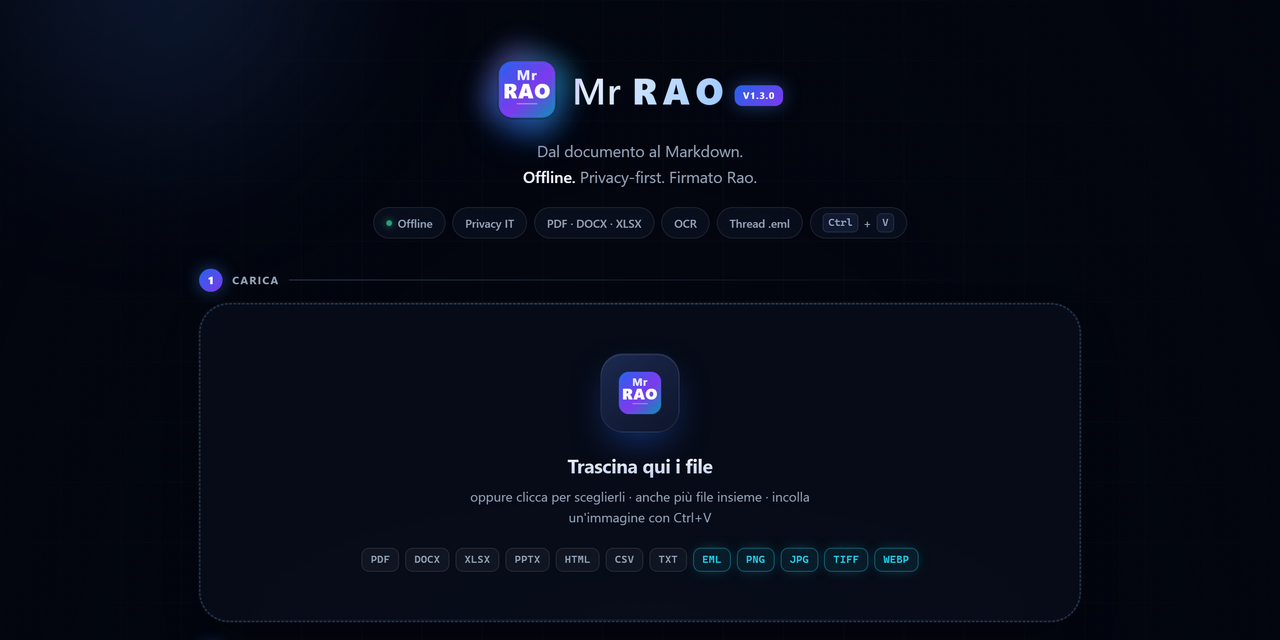
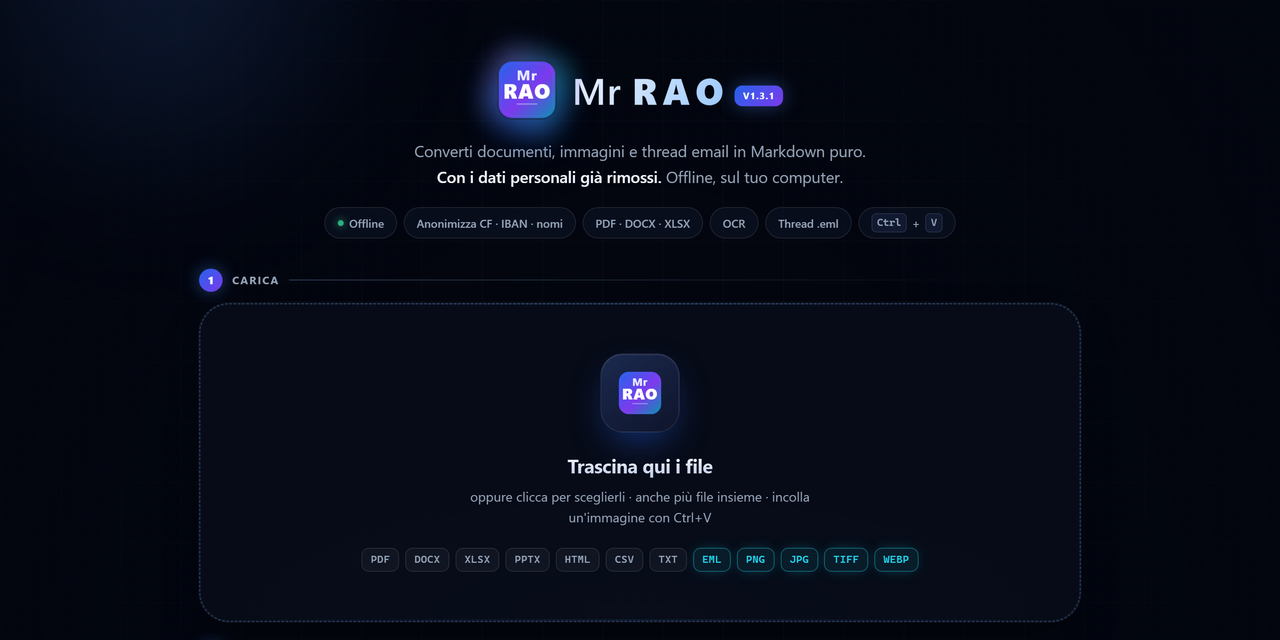
Lead with what the tool actually does: it anonymises
The header said where conversion happens, not that the output comes out
already stripped of personal data. Those are two different promises, and the
second is the one no other offline converter makes — it is what makes pasting
the result into an assistant safe.

- Header and both READMEs now lead with the redaction, not with "offline"
- The "Privacy IT" pill says what it does: "Anonimizza CF, IBAN, nomi"
- Dropped "Firmato Rao": an in-joke for anyone who does not know the author
- scripts/make_screenshot.py replaces the fiddly manual capture. Headless
  Chrome cannot drive the page, so a same-origin bridge page performs the
  conversion over a synchronous XHR before the load event Chrome shoots on;
  an async fetch photographs an empty result.
- Backlog: translating the UI needs pluggable per-country detectors first,
  or an English interface would promise to protect data it cannot recognise

Changed region(s): [[0.3125, 0.2188, 0.6875, 0.3125], [0.25, 0.3125, 0.75, 0.375]]

diff --git a/templates/index.html b/templates/index.html
@@ -32,12 +32,12 @@
             <span class="hero__wordmark">Mr <span class="hero__rao">RAO</span><span class="hero__badge">v{{ app_version }}</span></span>
         </div>
         <p class="hero__tagline">
-            Dal documento al Markdown.<br>
-            <strong>Offline.</strong> Privacy-first. Firmato Rao.
+            Converti documenti, immagini e thread email in Markdown puro.<br>
+            <strong>Con i dati personali già rimossi.</strong> Offline, sul tuo computer.
         </p>
         <div class="pills">
             <span class="pill"><span class="pill-dot"></span> Offline</span>
-            <span class="pill">Privacy IT</span>
+            <span class="pill">Anonimizza CF · IBAN · nomi</span>
             <span class="pill">PDF · DOCX · XLSX</span>
             <span class="pill">OCR</span>
             <span class="pill">Thread .eml</span>

diff --git a/scripts/make_screenshot.py b/scripts/make_screenshot.py
@@ -1,0 +1,209 @@
+"""Genera lo screenshot dell'interfaccia per il README.
+
+Perché serve uno script e non uno scatto a mano: la schermata va rifatta a
+ogni modifica visibile della UI, e a mano si sbaglia (si fotografa il
+risultato vuoto, oppure il server serve ancora il template in cache).
+
+Come funziona, e perché così:
+
+1. Scrive una pagina-ponte temporanea in `static/`. Serve perché Chrome in
+   modalità headless non sa interagire con la pagina: non può caricare un
+   file e aspettare la conversione. La pagina-ponte invece è servita dalla
+   stessa origine dell'app, quindi può pilotarne il DOM.
+2. La conversione la fa con una XHR **sincrona**: Chrome scatta sull'evento
+   `load`, quindi tutto il lavoro deve concludersi prima di quell'evento.
+   Con una fetch asincrona si fotografa un risultato ancora vuoto.
+3. Ritaglia lo spazio vuoto sotto il footer cercando l'ultima riga che
+   contiene testo chiaro.
+
+Uso:
+    venv\\Scripts\\python scripts\\make_screenshot.py --url http://127.0.0.1:5000
+
+Il server dev'essere già avviato **dopo** l'ultima modifica ai template:
+Jinja li tiene in cache, quindi un server vecchio serve la pagina vecchia.
+"""
+from __future__ import annotations
+
+import argparse
+import shutil
+import subprocess
+import sys
+import urllib.error
+import urllib.request
+from pathlib import Path
+
+ROOT = Path(__file__).resolve().parents[1]
+STATIC = ROOT / "static"
+OUT_DIR = ROOT / "docs" / "img"
+PONTE = STATIC / "_screenshot_bridge.html"
+
+CHROME_CANDIDATI = [
+    Path(r"C:\Program Files\Google\Chrome\Application\chrome.exe"),
+    Path(r"C:\Program Files (x86)\Google\Chrome\Application\chrome.exe"),
+    Path.home() / r"AppData\Local\Google\Chrome\Application\chrome.exe",
+    Path(r"C:\Program Files (x86)\Microsoft\Edge\Application\msedge.exe"),
+    Path(r"C:\Program Files\Microsoft\Edge\Application\msedge.exe"),
+]
+
+DOCUMENTO_DEMO = """FATTURA n. 2026/0184
+
+Cliente: Mario Rossi
+Via dei Mille 12, Milano
+Codice fiscale: RSSMRA80A01H501U
+P.IVA: IT01234567890
+Email: mario.rossi@example.com
+Telefono: +39 333 1234567
+IBAN: IT60X0542811101000000123456
+
+Protocollo interno 0123456789 - Versione 1.10 del listino
+
+Descrizione                 Quantita   Importo
+Consulenza tecnica              12     1.440,00
+Licenza software annuale         1       600,00
+Totale imponibile                      2.040,00"""
+
+PONTE_HTML = """<!doctype html>
+<html lang="it">
+<head><meta charset="utf-8"><title>scatto</title>
+<style>html,body{margin:0;padding:0;background:#060912}iframe{display:block;width:100vw;height:100vh;border:0}</style>
+</head>
+<body>
+<script>
+const CONTENUTO = __CONTENUTO__;
+const fd = new FormData();
+fd.append('file', new File([CONTENUTO], 'fattura-2026-0184.txt', {type: 'text/plain'}));
+fd.append('profile', 'default');
+const xhr = new XMLHttpRequest();
+xhr.open('POST', '/api/convert/sync', false);
+xhr.send(fd);
+const esito = JSON.parse(xhr.responseText);
+
+const frame = document.createElement('iframe');
+frame.src = '/';
+frame.addEventListener('load', () => {
+  const doc = frame.contentDocument;
+  doc.getElementById('markdown-output').textContent = esito.markdown;
+  doc.getElementById('result-card').style.display = 'flex';
+  const badge = doc.getElementById('redaction-badge');
+  const totale = (esito.redaction && esito.redaction.total) || 0;
+  if (badge && totale) {
+    badge.style.display = 'inline-flex';
+    badge.textContent = '\\u{1F6E1}\\uFE0F ' + totale + ' redazioni';
+  }
+  const stile = doc.createElement('style');
+  stile.textContent = '.info-fab{display:none!important}';
+  doc.head.appendChild(stile);
+  const cronologia = doc.getElementById('history-list');
+  if (cronologia) {
+    cronologia.innerHTML = '<button type="button" class="history-item">' +
+      '<span class="hi-name">fattura-2026-0184.md</span>' +
+      '<span class="hi-meta">adesso \\u00b7 \\u{1F6E1}\\uFE0F' + totale + '</span></button>';
+  }
+});
+document.body.appendChild(frame);
+</script>
+</body>
+</html>
+"""
+
+
+def trova_browser() -> Path | None:
+    for p in CHROME_CANDIDATI:
+        if p.exists():
+            return p
+    return None
+
+
+def server_attivo(url: str) -> bool:
+    try:
+        with urllib.request.urlopen(url.rstrip("/") + "/api/health", timeout=3) as r:
+            return r.status == 200
+    except (urllib.error.URLError, OSError):
+        return False
+
+
+def ritaglia_e_salva(grezzo: Path, larghezza_finale: int = 1500) -> tuple[int, int]:
+    from PIL import Image
+
+    im = Image.open(grezzo).convert("RGB")
+    larg, alt = im.size
+
+    def ha_testo(y: int) -> bool:
+        return any(max(im.getpixel((x, y))) > 130 for x in range(0, larg, 12))
+
+    ultima = alt - 1
+    while ultima > 0 and not ha_testo(ultima):
+        ultima -= 10
+
+    ritagliata = im.crop((0, 0, larg, min(alt, ultima + 110)))
+    altezza = round(ritagliata.size[1] * larghezza_finale / larg)
+    finale = ritagliata.resize((larghezza_finale, altezza), Image.LANCZOS)
+
+    OUT_DIR.mkdir(parents=True, exist_ok=True)
+    finale.save(OUT_DIR / "schermata.png", optimize=True)
+    # Anteprima social 1280x640: solo intestazione e area di rilascio
+    im.crop((0, 0, larg, round(larg / 2))).resize((1280, 640), Image.LANCZOS).save(
+        OUT_DIR / "social-preview.png", optimize=True
+    )
+    return finale.size
+
+
+def main(argv: list[str]) -> int:
+    ap = argparse.ArgumentParser(description="Screenshot dell'interfaccia per il README")
+    ap.add_argument("--url", default="http://127.0.0.1:5000", help="URL dell'app già avviata")
+    ap.add_argument("--width", type=int, default=1360, help="larghezza finestra in px CSS")
+    ap.add_argument("--height", type=int, default=2500, help="altezza finestra in px CSS")
+    args = ap.parse_args(argv)
+
+    browser = trova_browser()
+    if browser is None:
+        print("Chrome o Edge non trovati: servono per lo scatto headless.", file=sys.stderr)
+        return 1
+
+    if not server_attivo(args.url):
+        print(f"Nessuna app in ascolto su {args.url}. Avviala prima:", file=sys.stderr)
+        print("    python app.py", file=sys.stderr)
+        return 1
+
+    import json
+
+    PONTE.write_text(
+        PONTE_HTML.replace("__CONTENUTO__", json.dumps(DOCUMENTO_DEMO)),
+        encoding="utf-8",
+    )
+    grezzo = OUT_DIR / "_grezzo.png"
+    profilo = OUT_DIR / "_chrome_profile"
+    try:
+        OUT_DIR.mkdir(parents=True, exist_ok=True)
+        subprocess.run(
+            [
+                str(browser),
+                "--headless=new",
+                "--disable-gpu",
+                "--hide-scrollbars",
+                "--force-device-scale-factor=2",
+                f"--window-size={args.width},{args.height}",
+                "--virtual-time-budget=6000",
+                f"--screenshot={grezzo}",
+                f"--user-data-dir={profilo}",
+                f"{args.url.rstrip('/')}/static/{PONTE.name}",
+            ],
+            check=True,
+            capture_output=True,
+        )
+        if not grezzo.exists():
+            print("Chrome non ha prodotto l'immagine.", file=sys.stderr)
+            return 1
+        dimensioni = ritaglia_e_salva(grezzo)
+        peso = (OUT_DIR / "schermata.png").stat().st_size // 1024
+        print(f"docs/img/schermata.png      {dimensioni[0]}x{dimensioni[1]}  {peso} KB")
+        print("docs/img/social-preview.png 1280x640")
+        return 0
+    finally:
+        PONTE.unlink(missing_ok=True)
+        grezzo.unlink(missing_ok=True)
+        shutil.rmtree(profilo, ignore_errors=True)
+
+
+if __name__ == "__main__":
+    raise SystemExit(main(sys.argv[1:]))

diff --git a/config.py b/config.py
@@ -26,7 +26,10 @@ def _writable_dir() -> Path:
 # Brand
 APP_NAME = "Mr. Rao"
 APP_SLUG = "mr-rao"
-APP_TAGLINE = "Dal documento al Markdown. Offline. Firmato Rao."
+APP_TAGLINE = (
+    "Converti documenti, immagini e thread email in Markdown puro. "
+    "Con i dati personali già rimossi. Offline, sul tuo computer."
+)
 APP_VERSION = "1.3.1"
 
 # Paths

diff --git a/docs/BACKLOG.md b/docs/BACKLOG.md
@@ -127,6 +127,22 @@ Aggiunto dopo l'audit di agosto 2026. Tutti verificati eseguendo, non ipotizzati
 | P2.7 | Verifica «HEAD è importabile» in CI | È già successo di committarne uno rotto | TODO |
 | P2.8 | Valutare la rimozione di Scrubadub | Porta 6 pacchetti (uno LGPL) per un guadagno marginale sull'italiano | TODO |
 
+## P1-bis — Interfaccia in inglese (dopo il lancio)
+
+Il README è bilingue, l'interfaccia no. Tradurla è una **funzionalità**, non
+una passata di traduzione, e va fatta nell'ordine giusto.
+
+| ID | Item | Note | Stato |
+|----|------|------|-------|
+| P1.6 | Estrarre le stringhe della UI in un dizionario `it` / `en` + selettore lingua | ~80 stringhe fra template, JS e messaggi del server: i tooltip sono lunghi apposta | TODO |
+| P1.7 | **Prima** di P1.6: rendere i riconoscitori innestabili per Paese | Oggi riconosce solo dati italiani (CF, P.IVA, IBAN, nomi IT). Una UI inglese su un motore solo-italiano promette a un utente inglese di proteggere dati che non sa riconoscere — lo stesso errore del selettore lingua OCR | TODO |
+
+**Perché in quest'ordine.** L'inglese nell'interfaccia dice «questo strumento
+è per te» a chi parla inglese. Se poi il filtro privacy ignora un National
+Insurance Number o un SSN, la promessa è tradita nel punto che conta di più.
+Fino ad allora, la combinazione onesta è quella attuale: README in inglese
+che spiega il perimetro italiano, interfaccia in italiano per chi la usa.
+
 ---
 
 ## Metriche di “fatto” per P0

diff --git a/README.md b/README.md
@@ -1,6 +1,7 @@
 # Mr. Rao
 
-**Turn PDFs, Office files, scans and emails into clean Markdown — on your own machine, without sending anything anywhere.**
+**Turn PDFs, Office files, scans and emails into clean Markdown — with the personal data already stripped out.**
+**All on your own machine, without sending anything anywhere.**
 
 [![Version](https://img.shields.io/badge/version-1.3.1-3b82f6)](docs/CHANGELOG.md)
 [![Tests](https://img.shields.io/badge/tests-161%20passing-10b981)](tests/)

diff --git a/README.it.md b/README.it.md
@@ -1,6 +1,7 @@
 # Mr. Rao
 
-**Trasforma PDF, Word, Excel, scansioni ed email in Markdown pulito. Sul tuo computer, senza mandare niente a nessuno.**
+**Trasforma PDF, Word, Excel, scansioni ed email in Markdown pulito — con i dati personali già rimossi.**
+**Tutto sul tuo computer, senza mandare niente a nessuno.**
 
 [![Versione](https://img.shields.io/badge/versione-1.3.1-3b82f6)](docs/CHANGELOG.md)
 [![Test](https://img.shields.io/badge/test-161%20passati-10b981)](tests/)
